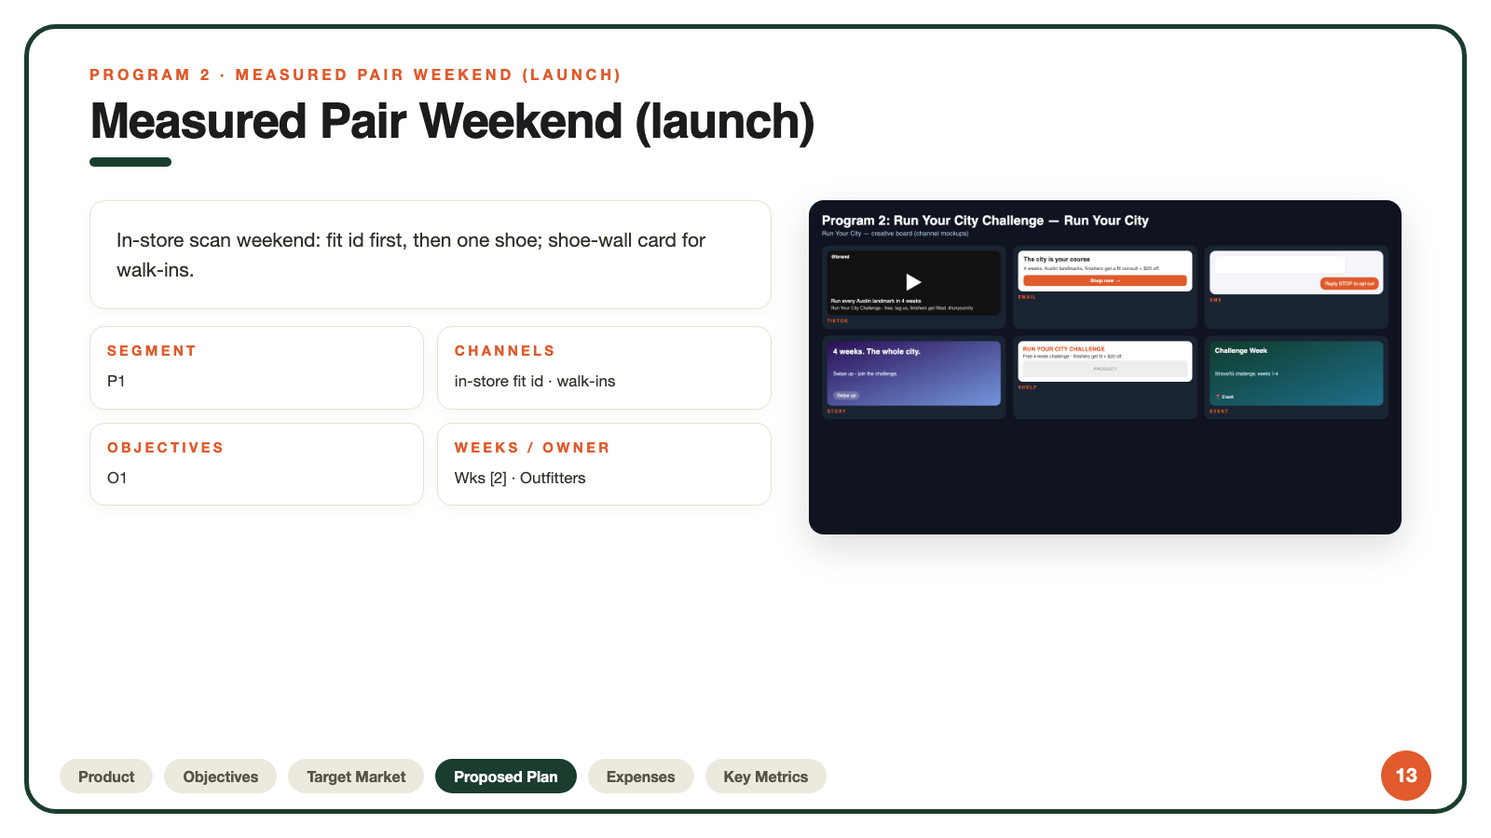
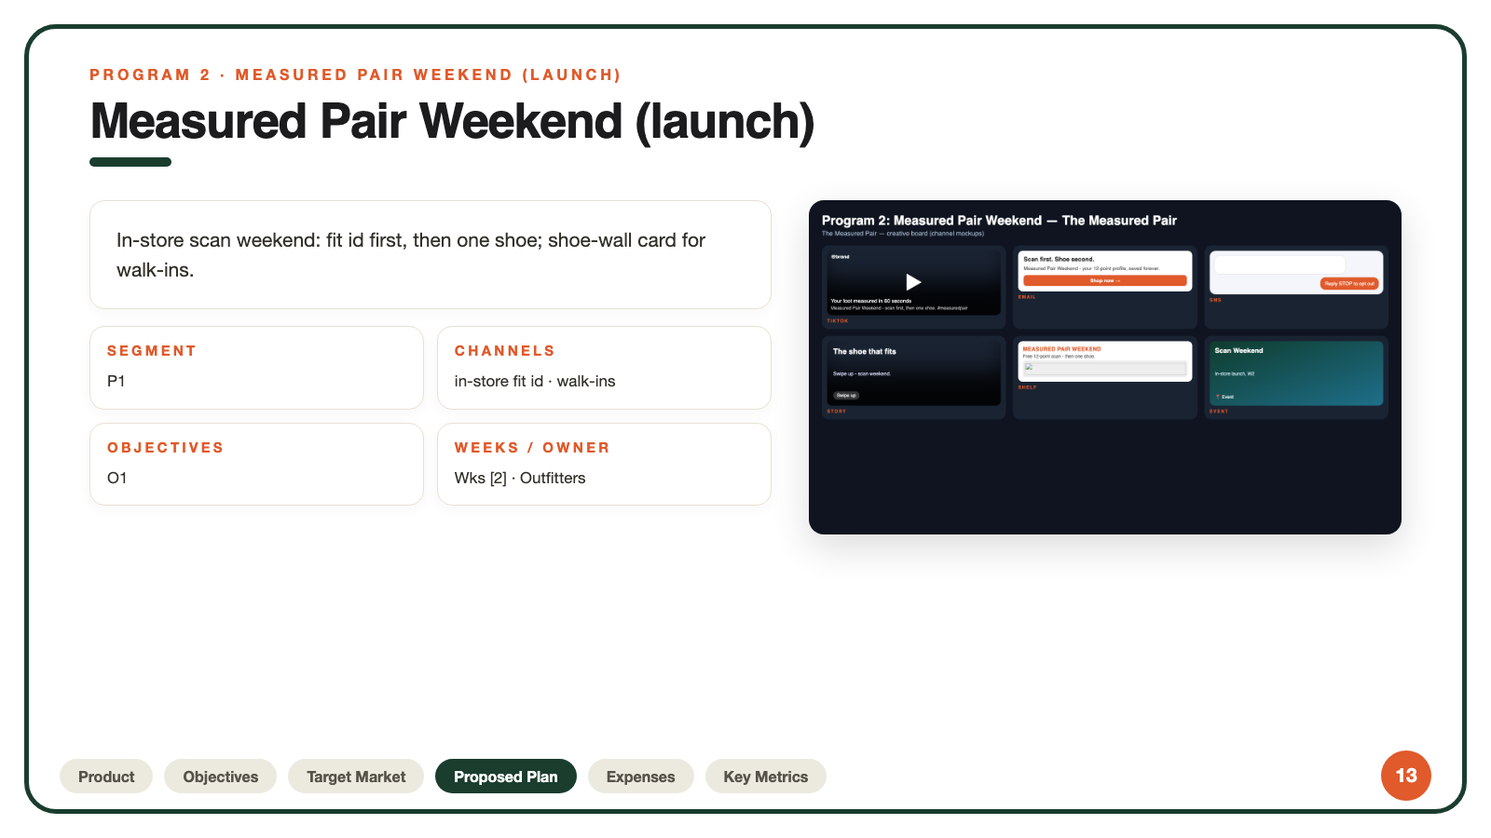
v25: regenerate creative boards for The Measured Pair

Changed region(s): [[0.5312, 0.4044, 0.75, 0.4978], [0.5625, 0.2489, 0.7812, 0.3733], [0.8125, 0.4044, 0.8438, 0.4356]]

diff --git a/pipeline/runs/v25/visuals/board_s12.html b/pipeline/runs/v25/visuals/board_s12.html
@@ -11,4 +11,4 @@ body{width:1560px;height:880px;font-family:-apple-system,Helvetica,Arial,sans-se
 .ph{background:#f4f6fb;border-radius:16px;padding:12px;display:flex;flex-direction:column;gap:8px} .bub{background:#fff;border:1px solid #ddd;border-radius:14px;padding:9px 12px;font-size:13px;max-width:80%} .bub.me{background:#e05a2b;color:#fff;border:none;align-self:flex-end}
 .st{background:linear-gradient(160deg,#2b1055,#7597de);border-radius:14px;height:170px;padding:16px;display:flex;flex-direction:column;justify-content:space-between} .stt{font-size:20px;font-weight:800} .stb{font-size:13px;color:#dfe6ff} .stswipe{font-size:12px;color:#fff;background:rgba(255,255,255,.2);align-self:flex-start;padding:4px 10px;border-radius:999px}
 .sh{background:#fff;color:#222;border-radius:12px;padding:12px} .sht{font-size:15px;font-weight:800;color:#e05a2b} .shb{font-size:12px;color:#555;margin:4px 0} .shp{background:#eee;border-radius:8px;height:44px;display:flex;align-items:center;justify-content:center;font-size:11px;color:#999;letter-spacing:1px}
-.ev{background:linear-gradient(160deg,#0f3d2e,#1f6f8b);border-radius:14px;padding:14px;display:flex;flex-direction:column;justify-content:space-between;min-height:170px} .evh{font-size:18px;font-weight:800} .evb{font-size:12px;color:#cfe8f0} .evd{font-size:12px;color:#fff}</style></head><body><div class='h'>Program 1: Community Run Takeover — Run Your City</div><div class='sub'>Run Your City — creative board (channel mockups)</div><div class='grid'><div class='tile'><div class='tt' style=''><div class='ttv'>▶</div><div class='ttc'>@brand</div><div class='ttx'>Free run club, no fee, no catch<br><span>Community Run Takeover - pace groups + post-run fit clinic. #runyourcity</span></div></div><div class='cap'>TIKTOK</div></div><div class='tile'><div class='em'><div class='emh'>Your first run is on us</div><div class='emb'>Join the Austin run crew - pace groups for every level.</div><div class='embtn'>Shop now →</div></div><div class='cap'>EMAIL</div></div><div class='tile'><div class='ph'><div class='bub'>FLEET FEET: free group run this Sat - all paces welcome.</div><div class='bub me'>Reply STOP to opt out</div></div><div class='cap'>SMS</div></div><div class='tile'><div class='st' style=''><div class='stt'>Run with the city</div><div class='stb'>Swipe up - free group run + fit clinic.</div><div class='stswipe'>Swipe up</div></div><div class='cap'>STORY</div></div><div class='tile'><div class='sh'><div class='sht'>RUN YOUR CITY</div><div class='shb'>Free group runs - all paces, post-run fit check.</div><div class='shp' style='padding:6px'>PRODUCT</div></div><div class='cap'>SHELF</div></div><div class='tile'><div class='ev'><div class='evh'>Community Run</div><div class='evb'>Sat 7am - pace groups + fit clinic + first-visit card</div><div class='evd'>📍 Event</div></div><div class='cap'>EVENT</div></div></div></body></html>
+.ev{background:linear-gradient(160deg,#0f3d2e,#1f6f8b);border-radius:14px;padding:14px;display:flex;flex-direction:column;justify-content:space-between;min-height:170px} .evh{font-size:18px;font-weight:800} .evb{font-size:12px;color:#cfe8f0} .evd{font-size:12px;color:#fff}</style></head><body><div class='h'>Program 1: Tease — The Measured Pair</div><div class='sub'>The Measured Pair — creative board (channel mockups)</div><div class='grid'><div class='tile'><div class='tt' style='background:url(file:///Users/pranav/Desktop/DevinProjects/imcp-product-finder/pipeline/runs/v25/webimg/hero.jpg) center/cover;box-shadow:inset 0 -110px 60px -20px rgba(0,0,0,.88);'><div class='ttv'>▶</div><div class='ttc'>@brand</div><div class='ttx'>Same shoe. Same price. Measured first.<br><span>The Measured Pair - 12-point fit scan, free. #measuredpair</span></div></div><div class='cap'>TIKTOK</div></div><div class='tile'><div class='em'><div class='emh'>Your foot has a number. Find it.</div><div class='emb'>Free fit id scan - saved profile, matched price.</div><div class='embtn'>Shop now →</div></div><div class='cap'>EMAIL</div></div><div class='tile'><div class='ph'><div class='bub'>FLEET FEET: free 12-point fit scan this weekend - book ahead.</div><div class='bub me'>Reply STOP to opt out</div></div><div class='cap'>SMS</div></div><div class='tile'><div class='st' style='background:url(file:///Users/pranav/Desktop/DevinProjects/imcp-product-finder/pipeline/runs/v25/webimg/hero.jpg) center/cover;box-shadow:inset 0 -110px 60px -20px rgba(0,0,0,.88);'><div class='stt'>Same shoe, measured first</div><div class='stb'>Swipe up - book a free fit id.</div><div class='stswipe'>Swipe up</div></div><div class='cap'>STORY</div></div><div class='tile'><div class='sh'><div class='sht'>THE MEASURED PAIR</div><div class='shb'>Same shoe, same price, chosen after a 12-point scan.</div><div class='shp' style='padding:6px'><img src='file:///Users/pranav/Desktop/DevinProjects/imcp-product-finder/pipeline/runs/v25/webimg/hero.jpg' style='width:100%;height:100%;object-fit:contain'></div></div><div class='cap'>SHELF</div></div><div class='tile'><div class='ev'><div class='evh'>Tease Week</div><div class='evb'>Paid search + geo social, W1</div><div class='evd'>📍 Event</div></div><div class='cap'>EVENT</div></div></div></body></html>

diff --git a/pipeline/runs/v25/visuals/board_s13.html b/pipeline/runs/v25/visuals/board_s13.html
@@ -11,4 +11,4 @@ body{width:1560px;height:880px;font-family:-apple-system,Helvetica,Arial,sans-se
 .ph{background:#f4f6fb;border-radius:16px;padding:12px;display:flex;flex-direction:column;gap:8px} .bub{background:#fff;border:1px solid #ddd;border-radius:14px;padding:9px 12px;font-size:13px;max-width:80%} .bub.me{background:#e05a2b;color:#fff;border:none;align-self:flex-end}
 .st{background:linear-gradient(160deg,#2b1055,#7597de);border-radius:14px;height:170px;padding:16px;display:flex;flex-direction:column;justify-content:space-between} .stt{font-size:20px;font-weight:800} .stb{font-size:13px;color:#dfe6ff} .stswipe{font-size:12px;color:#fff;background:rgba(255,255,255,.2);align-self:flex-start;padding:4px 10px;border-radius:999px}
 .sh{background:#fff;color:#222;border-radius:12px;padding:12px} .sht{font-size:15px;font-weight:800;color:#e05a2b} .shb{font-size:12px;color:#555;margin:4px 0} .shp{background:#eee;border-radius:8px;height:44px;display:flex;align-items:center;justify-content:center;font-size:11px;color:#999;letter-spacing:1px}
-.ev{background:linear-gradient(160deg,#0f3d2e,#1f6f8b);border-radius:14px;padding:14px;display:flex;flex-direction:column;justify-content:space-between;min-height:170px} .evh{font-size:18px;font-weight:800} .evb{font-size:12px;color:#cfe8f0} .evd{font-size:12px;color:#fff}</style></head><body><div class='h'>Program 2: Run Your City Challenge — Run Your City</div><div class='sub'>Run Your City — creative board (channel mockups)</div><div class='grid'><div class='tile'><div class='tt' style=''><div class='ttv'>▶</div><div class='ttc'>@brand</div><div class='ttx'>Run every Austin landmark in 4 weeks<br><span>Run Your City Challenge - free, tag us, finishers get fitted. #runyourcity</span></div></div><div class='cap'>TIKTOK</div></div><div class='tile'><div class='em'><div class='emh'>The city is your course</div><div class='emb'>4 weeks, Austin landmarks, finishers get a fit consult + $20 off.</div><div class='embtn'>Shop now →</div></div><div class='cap'>EMAIL</div></div><div class='tile'><div class='ph'><div class='bub'>Run Your City Challenge is live - run Austin, get fitted free.</div><div class='bub me'>Reply STOP to opt out</div></div><div class='cap'>SMS</div></div><div class='tile'><div class='st' style=''><div class='stt'>4 weeks. The whole city.</div><div class='stb'>Swipe up - join the challenge.</div><div class='stswipe'>Swipe up</div></div><div class='cap'>STORY</div></div><div class='tile'><div class='sh'><div class='sht'>RUN YOUR CITY CHALLENGE</div><div class='shb'>Free 4-week challenge - finishers get fit + $20 off.</div><div class='shp' style='padding:6px'>PRODUCT</div></div><div class='cap'>SHELF</div></div><div class='tile'><div class='ev'><div class='evh'>Challenge Week</div><div class='evb'>Strava/IG challenge, weeks 1-4</div><div class='evd'>📍 Event</div></div><div class='cap'>EVENT</div></div></div></body></html>
+.ev{background:linear-gradient(160deg,#0f3d2e,#1f6f8b);border-radius:14px;padding:14px;display:flex;flex-direction:column;justify-content:space-between;min-height:170px} .evh{font-size:18px;font-weight:800} .evb{font-size:12px;color:#cfe8f0} .evd{font-size:12px;color:#fff}</style></head><body><div class='h'>Program 2: Measured Pair Weekend — The Measured Pair</div><div class='sub'>The Measured Pair — creative board (channel mockups)</div><div class='grid'><div class='tile'><div class='tt' style='background:url(file:///Users/pranav/Desktop/DevinProjects/imcp-product-finder/pipeline/runs/v25/webimg/hero.jpg) center/cover;box-shadow:inset 0 -110px 60px -20px rgba(0,0,0,.88);'><div class='ttv'>▶</div><div class='ttc'>@brand</div><div class='ttx'>Your foot measured in 60 seconds<br><span>Measured Pair Weekend - scan first, then one shoe. #measuredpair</span></div></div><div class='cap'>TIKTOK</div></div><div class='tile'><div class='em'><div class='emh'>Scan first. Shoe second.</div><div class='emb'>Measured Pair Weekend - your 12-point profile, saved forever.</div><div class='embtn'>Shop now →</div></div><div class='cap'>EMAIL</div></div><div class='tile'><div class='ph'><div class='bub'>MEASURED PAIR WEEKEND: free scan, saved profile.</div><div class='bub me'>Reply STOP to opt out</div></div><div class='cap'>SMS</div></div><div class='tile'><div class='st' style='background:url(file:///Users/pranav/Desktop/DevinProjects/imcp-product-finder/pipeline/runs/v25/webimg/hero.jpg) center/cover;box-shadow:inset 0 -110px 60px -20px rgba(0,0,0,.88);'><div class='stt'>The shoe that fits</div><div class='stb'>Swipe up - scan weekend.</div><div class='stswipe'>Swipe up</div></div><div class='cap'>STORY</div></div><div class='tile'><div class='sh'><div class='sht'>MEASURED PAIR WEEKEND</div><div class='shb'>Free 12-point scan - then one shoe.</div><div class='shp' style='padding:6px'><img src='file:///Users/pranav/Desktop/DevinProjects/imcp-product-finder/pipeline/runs/v25/webimg/hero.jpg' style='width:100%;height:100%;object-fit:contain'></div></div><div class='cap'>SHELF</div></div><div class='tile'><div class='ev'><div class='evh'>Scan Weekend</div><div class='evb'>In-store launch, W2</div><div class='evd'>📍 Event</div></div><div class='cap'>EVENT</div></div></div></body></html>

diff --git a/pipeline/runs/v25/visuals/board_s15.html b/pipeline/runs/v25/visuals/board_s15.html
@@ -11,4 +11,4 @@ body{width:1560px;height:880px;font-family:-apple-system,Helvetica,Arial,sans-se
 .ph{background:#f4f6fb;border-radius:16px;padding:12px;display:flex;flex-direction:column;gap:8px} .bub{background:#fff;border:1px solid #ddd;border-radius:14px;padding:9px 12px;font-size:13px;max-width:80%} .bub.me{background:#e05a2b;color:#fff;border:none;align-self:flex-end}
 .st{background:linear-gradient(160deg,#2b1055,#7597de);border-radius:14px;height:170px;padding:16px;display:flex;flex-direction:column;justify-content:space-between} .stt{font-size:20px;font-weight:800} .stb{font-size:13px;color:#dfe6ff} .stswipe{font-size:12px;color:#fff;background:rgba(255,255,255,.2);align-self:flex-start;padding:4px 10px;border-radius:999px}
 .sh{background:#fff;color:#222;border-radius:12px;padding:12px} .sht{font-size:15px;font-weight:800;color:#e05a2b} .shb{font-size:12px;color:#555;margin:4px 0} .shp{background:#eee;border-radius:8px;height:44px;display:flex;align-items:center;justify-content:center;font-size:11px;color:#999;letter-spacing:1px}
-.ev{background:linear-gradient(160deg,#0f3d2e,#1f6f8b);border-radius:14px;padding:14px;display:flex;flex-direction:column;justify-content:space-between;min-height:170px} .evh{font-size:18px;font-weight:800} .evb{font-size:12px;color:#cfe8f0} .evd{font-size:12px;color:#fff}</style></head><body><div class='h'>Program 4: Miles Club — Run Your City</div><div class='sub'>Run Your City — creative board (channel mockups)</div><div class='grid'><div class='tile'><div class='tt' style=''><div class='ttv'>▶</div><div class='ttc'>@brand</div><div class='ttx'>Your shoes die at 400 miles. Not a joke.<br><span>Miles Club - reminders, run calendars, perks. #milesclub</span></div></div><div class='cap'>TIKTOK</div></div><div class='tile'><div class='em'><div class='emh'>Your shoes have 100 miles left</div><div class='emb'>Shoe-mileage reminders + local run calendar + member perks.</div><div class='embtn'>Shop now →</div></div><div class='cap'>EMAIL</div></div><div class='tile'><div class='ph'><div class='bub'>Miles Club: shoe reminders + run calendar + perks.</div><div class='bub me'>Reply STOP to opt out</div></div><div class='cap'>SMS</div></div><div class='tile'><div class='st' style=''><div class='stt'>When did you last replace your shoes?</div><div class='stb'>Swipe up - join Miles Club.</div><div class='stswipe'>Swipe up</div></div><div class='cap'>STORY</div></div><div class='tile'><div class='sh'><div class='sht'>MILES CLUB</div><div class='shb'>Shoe-mileage reminders + run calendar + perks.</div><div class='shp' style='padding:6px'>PRODUCT</div></div><div class='cap'>SHELF</div></div><div class='tile'><div class='ev'><div class='evh'>Club Launch</div><div class='evb'>Email/SMS series, weeks 1-6</div><div class='evd'>📍 Event</div></div><div class='cap'>EVENT</div></div></div></body></html>
+.ev{background:linear-gradient(160deg,#0f3d2e,#1f6f8b);border-radius:14px;padding:14px;display:flex;flex-direction:column;justify-content:space-between;min-height:170px} .evh{font-size:18px;font-weight:800} .evb{font-size:12px;color:#cfe8f0} .evd{font-size:12px;color:#fff}</style></head><body><div class='h'>Program 4: Convert + Close — The Measured Pair</div><div class='sub'>The Measured Pair — creative board (channel mockups)</div><div class='grid'><div class='tile'><div class='tt' style='background:url(file:///Users/pranav/Desktop/DevinProjects/imcp-product-finder/pipeline/runs/v25/webimg/hero.jpg) center/cover;box-shadow:inset 0 -110px 60px -20px rgba(0,0,0,.88);'><div class='ttv'>▶</div><div class='ttc'>@brand</div><div class='ttx'>You got scanned. Now what?<br><span>Convert + close - the second pair is already in the plan. #measuredpair</span></div></div><div class='cap'>TIKTOK</div></div><div class='tile'><div class='em'><div class='emh'>Your profile is saved - one step left</div><div class='emb'>Happy Fit reminder + attach the pair right.</div><div class='embtn'>Shop now →</div></div><div class='cap'>EMAIL</div></div><div class='tile'><div class='ph'><div class='bub'>Your fit id is saved - finish the pair this week.</div><div class='bub me'>Reply STOP to opt out</div></div><div class='cap'>SMS</div></div><div class='tile'><div class='st' style='background:url(file:///Users/pranav/Desktop/DevinProjects/imcp-product-finder/pipeline/runs/v25/webimg/hero.jpg) center/cover;box-shadow:inset 0 -110px 60px -20px rgba(0,0,0,.88);'><div class='stt'>One step left</div><div class='stb'>Swipe up - complete the pair.</div><div class='stswipe'>Swipe up</div></div><div class='cap'>STORY</div></div><div class='tile'><div class='sh'><div class='sht'>FINISH THE PAIR</div><div class='shb'>Scanned? Your profile is saved - finish it.</div><div class='shp' style='padding:6px'><img src='file:///Users/pranav/Desktop/DevinProjects/imcp-product-finder/pipeline/runs/v25/webimg/hero.jpg' style='width:100%;height:100%;object-fit:contain'></div></div><div class='cap'>SHELF</div></div><div class='tile'><div class='ev'><div class='evh'>Close Week</div><div class='evb'>Milestones + POS readback, W6</div><div class='evd'>📍 Event</div></div><div class='cap'>EVENT</div></div></div></body></html>

diff --git a/pipeline/runs/v25/visuals/board_s16.html b/pipeline/runs/v25/visuals/board_s16.html
@@ -11,4 +11,4 @@ body{width:1560px;height:880px;font-family:-apple-system,Helvetica,Arial,sans-se
 .ph{background:#f4f6fb;border-radius:16px;padding:12px;display:flex;flex-direction:column;gap:8px} .bub{background:#fff;border:1px solid #ddd;border-radius:14px;padding:9px 12px;font-size:13px;max-width:80%} .bub.me{background:#e05a2b;color:#fff;border:none;align-self:flex-end}
 .st{background:linear-gradient(160deg,#2b1055,#7597de);border-radius:14px;height:170px;padding:16px;display:flex;flex-direction:column;justify-content:space-between} .stt{font-size:20px;font-weight:800} .stb{font-size:13px;color:#dfe6ff} .stswipe{font-size:12px;color:#fff;background:rgba(255,255,255,.2);align-self:flex-start;padding:4px 10px;border-radius:999px}
 .sh{background:#fff;color:#222;border-radius:12px;padding:12px} .sht{font-size:15px;font-weight:800;color:#e05a2b} .shb{font-size:12px;color:#555;margin:4px 0} .shp{background:#eee;border-radius:8px;height:44px;display:flex;align-items:center;justify-content:center;font-size:11px;color:#999;letter-spacing:1px}
-.ev{background:linear-gradient(160deg,#0f3d2e,#1f6f8b);border-radius:14px;padding:14px;display:flex;flex-direction:column;justify-content:space-between;min-height:170px} .evh{font-size:18px;font-weight:800} .evb{font-size:12px;color:#cfe8f0} .evd{font-size:12px;color:#fff}</style></head><body><div class='h'>45-Day Schedule: Run Your City</div><div class='sub'>Run Your City — creative board (channel mockups)</div><div class='grid'><div class='tile'><div class='tt' style=''><div class='ttv'>▶</div><div class='ttc'>@brand</div><div class='ttx'>Your shoes die at 400 miles. Not a joke.<br><span>Miles Club - reminders, run calendars, perks. #milesclub</span></div></div><div class='cap'>TIKTOK</div></div><div class='tile'><div class='em'><div class='emh'>Your shoes have 100 miles left</div><div class='emb'>Shoe-mileage reminders + local run calendar + member perks.</div><div class='embtn'>Shop now →</div></div><div class='cap'>EMAIL</div></div><div class='tile'><div class='ph'><div class='bub'>Miles Club: shoe reminders + run calendar + perks.</div><div class='bub me'>Reply STOP to opt out</div></div><div class='cap'>SMS</div></div><div class='tile'><div class='st' style=''><div class='stt'>When did you last replace your shoes?</div><div class='stb'>Swipe up - join Miles Club.</div><div class='stswipe'>Swipe up</div></div><div class='cap'>STORY</div></div><div class='tile'><div class='sh'><div class='sht'>MILES CLUB</div><div class='shb'>Shoe-mileage reminders + run calendar + perks.</div><div class='shp' style='padding:6px'>PRODUCT</div></div><div class='cap'>SHELF</div></div><div class='tile'><div class='ev'><div class='evh'>Club Launch</div><div class='evb'>Email/SMS series, weeks 1-6</div><div class='evd'>📍 Event</div></div><div class='cap'>EVENT</div></div></div></body></html>
+.ev{background:linear-gradient(160deg,#0f3d2e,#1f6f8b);border-radius:14px;padding:14px;display:flex;flex-direction:column;justify-content:space-between;min-height:170px} .evh{font-size:18px;font-weight:800} .evb{font-size:12px;color:#cfe8f0} .evd{font-size:12px;color:#fff}</style></head><body><div class='h'>45-Day Schedule: The Measured Pair</div><div class='sub'>The Measured Pair — creative board (channel mockups)</div><div class='grid'><div class='tile'><div class='tt' style='background:url(file:///Users/pranav/Desktop/DevinProjects/imcp-product-finder/pipeline/runs/v25/webimg/hero.jpg) center/cover;box-shadow:inset 0 -110px 60px -20px rgba(0,0,0,.88);'><div class='ttv'>▶</div><div class='ttc'>@brand</div><div class='ttx'>You got scanned. Now what?<br><span>Convert + close - the second pair is already in the plan. #measuredpair</span></div></div><div class='cap'>TIKTOK</div></div><div class='tile'><div class='em'><div class='emh'>Your profile is saved - one step left</div><div class='emb'>Happy Fit reminder + attach the pair right.</div><div class='embtn'>Shop now →</div></div><div class='cap'>EMAIL</div></div><div class='tile'><div class='ph'><div class='bub'>Your fit id is saved - finish the pair this week.</div><div class='bub me'>Reply STOP to opt out</div></div><div class='cap'>SMS</div></div><div class='tile'><div class='st' style='background:url(file:///Users/pranav/Desktop/DevinProjects/imcp-product-finder/pipeline/runs/v25/webimg/hero.jpg) center/cover;box-shadow:inset 0 -110px 60px -20px rgba(0,0,0,.88);'><div class='stt'>One step left</div><div class='stb'>Swipe up - complete the pair.</div><div class='stswipe'>Swipe up</div></div><div class='cap'>STORY</div></div><div class='tile'><div class='sh'><div class='sht'>FINISH THE PAIR</div><div class='shb'>Scanned? Your profile is saved - finish it.</div><div class='shp' style='padding:6px'><img src='file:///Users/pranav/Desktop/DevinProjects/imcp-product-finder/pipeline/runs/v25/webimg/hero.jpg' style='width:100%;height:100%;object-fit:contain'></div></div><div class='cap'>SHELF</div></div><div class='tile'><div class='ev'><div class='evh'>Close Week</div><div class='evb'>Milestones + POS readback, W6</div><div class='evd'>📍 Event</div></div><div class='cap'>EVENT</div></div></div></body></html>

diff --git a/pipeline/runs/v25/visuals/board_s14.html b/pipeline/runs/v25/visuals/board_s14.html
@@ -11,4 +11,4 @@ body{width:1560px;height:880px;font-family:-apple-system,Helvetica,Arial,sans-se
 .ph{background:#f4f6fb;border-radius:16px;padding:12px;display:flex;flex-direction:column;gap:8px} .bub{background:#fff;border:1px solid #ddd;border-radius:14px;padding:9px 12px;font-size:13px;max-width:80%} .bub.me{background:#e05a2b;color:#fff;border:none;align-self:flex-end}
 .st{background:linear-gradient(160deg,#2b1055,#7597de);border-radius:14px;height:170px;padding:16px;display:flex;flex-direction:column;justify-content:space-between} .stt{font-size:20px;font-weight:800} .stb{font-size:13px;color:#dfe6ff} .stswipe{font-size:12px;color:#fff;background:rgba(255,255,255,.2);align-self:flex-start;padding:4px 10px;border-radius:999px}
 .sh{background:#fff;color:#222;border-radius:12px;padding:12px} .sht{font-size:15px;font-weight:800;color:#e05a2b} .shb{font-size:12px;color:#555;margin:4px 0} .shp{background:#eee;border-radius:8px;height:44px;display:flex;align-items:center;justify-content:center;font-size:11px;color:#999;letter-spacing:1px}
-.ev{background:linear-gradient(160deg,#0f3d2e,#1f6f8b);border-radius:14px;padding:14px;display:flex;flex-direction:column;justify-content:space-between;min-height:170px} .evh{font-size:18px;font-weight:800} .evb{font-size:12px;color:#cfe8f0} .evd{font-size:12px;color:#fff}</style></head><body><div class='h'>Program 3: Fit First Clinics — Run Your City</div><div class='sub'>Run Your City — creative board (channel mockups)</div><div class='grid'><div class='tile'><div class='tt' style=''><div class='ttv'>▶</div><div class='ttc'>@brand</div><div class='ttx'>Why your shoes hurt (it&#x27;s not the shoe)<br><span>Fit First Clinics - free gait analysis. #fitfirst</span></div></div><div class='cap'>TIKTOK</div></div><div class='tile'><div class='em'><div class='emh'>Your feet have been telling you something</div><div class='emb'>Free gait analysis clinic - find your real size.</div><div class='embtn'>Shop now →</div></div><div class='cap'>EMAIL</div></div><div class='tile'><div class='ph'><div class='bub'>Free fit clinic this week - find out why your shoes hurt.</div><div class='bub me'>Reply STOP to opt out</div></div><div class='cap'>SMS</div></div><div class='tile'><div class='st' style=''><div class='stt'>Free gait analysis</div><div class='stb'>Swipe up - clinic signup.</div><div class='stswipe'>Swipe up</div></div><div class='cap'>STORY</div></div><div class='tile'><div class='sh'><div class='sht'>FIT FIRST CLINICS</div><div class='shb'>Free gait analysis - why your shoes hurt.</div><div class='shp' style='padding:6px'>PRODUCT</div></div><div class='cap'>SHELF</div></div><div class='tile'><div class='ev'><div class='evh'>Fit Clinic</div><div class='evb'>In-store nights, weeks 2-5</div><div class='evd'>📍 Event</div></div><div class='cap'>EVENT</div></div></div></body></html>
+.ev{background:linear-gradient(160deg,#0f3d2e,#1f6f8b);border-radius:14px;padding:14px;display:flex;flex-direction:column;justify-content:space-between;min-height:170px} .evh{font-size:18px;font-weight:800} .evb{font-size:12px;color:#cfe8f0} .evd{font-size:12px;color:#fff}</style></head><body><div class='h'>Program 3: Sustain — The Measured Pair</div><div class='sub'>The Measured Pair — creative board (channel mockups)</div><div class='grid'><div class='tile'><div class='tt' style='background:url(file:///Users/pranav/Desktop/DevinProjects/imcp-product-finder/pipeline/runs/v25/webimg/hero.jpg) center/cover;box-shadow:inset 0 -110px 60px -20px rgba(0,0,0,.88);'><div class='ttv'>▶</div><div class='ttc'>@brand</div><div class='ttx'>We brought the scanner to you<br><span>Club + workplace scan days - no store trip needed. #measuredpair</span></div></div><div class='cap'>TIKTOK</div></div><div class='tile'><div class='em'><div class='emh'>The scanner came to you</div><div class='emb'>Run club + Workplace Fit days - get measured on-site.</div><div class='embtn'>Shop now →</div></div><div class='cap'>EMAIL</div></div><div class='tile'><div class='ph'><div class='bub'>SCANNER ON-SITE this week at your club - free fit id.</div><div class='bub me'>Reply STOP to opt out</div></div><div class='cap'>SMS</div></div><div class='tile'><div class='st' style='background:url(file:///Users/pranav/Desktop/DevinProjects/imcp-product-finder/pipeline/runs/v25/webimg/hero.jpg) center/cover;box-shadow:inset 0 -110px 60px -20px rgba(0,0,0,.88);'><div class='stt'>We came to you</div><div class='stb'>Swipe up - on-site scans.</div><div class='stswipe'>Swipe up</div></div><div class='cap'>STORY</div></div><div class='tile'><div class='sh'><div class='sht'>SCAN DAYS</div><div class='shb'>Free fit id at your club or office.</div><div class='shp' style='padding:6px'><img src='file:///Users/pranav/Desktop/DevinProjects/imcp-product-finder/pipeline/runs/v25/webimg/hero.jpg' style='width:100%;height:100%;object-fit:contain'></div></div><div class='cap'>SHELF</div></div><div class='tile'><div class='ev'><div class='evh'>Scan Days</div><div class='evb'>Run club + employers, W3-4</div><div class='evd'>📍 Event</div></div><div class='cap'>EVENT</div></div></div></body></html>
